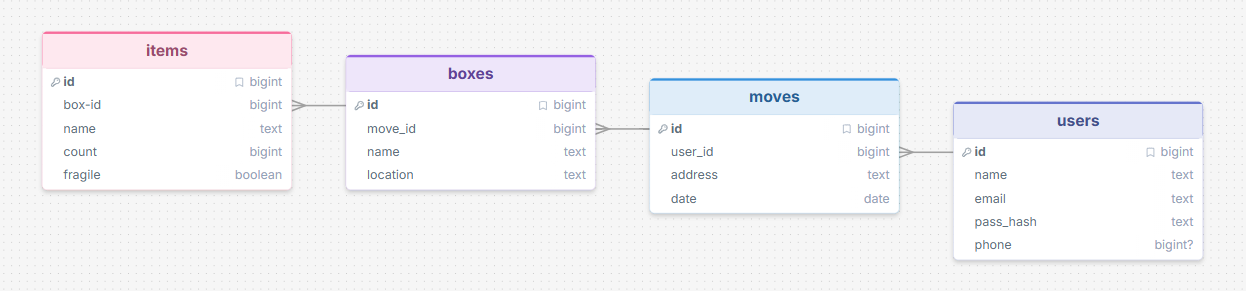
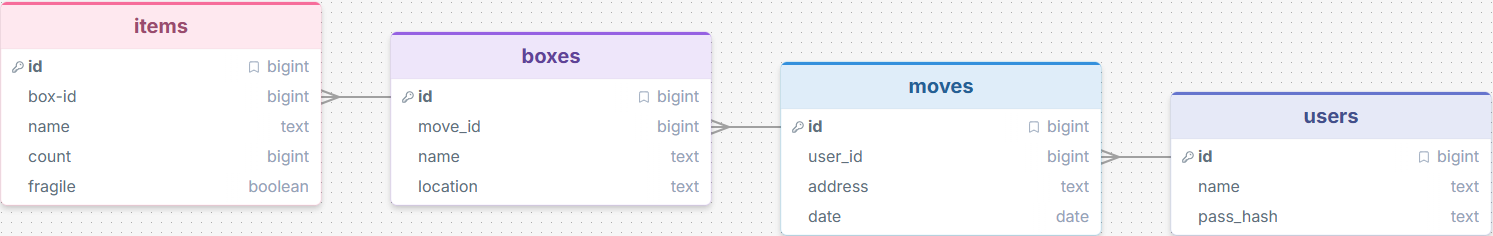
updated the db design and started on designng the UI

diff --git a/docs/evidence/sprint-1-prototype.md b/docs/evidence/sprint-1-prototype.md
@@ -53,13 +53,13 @@ This Figma demo shows the initial design for the UI 'flow':
 
 ### Testing
 
-Replace this text with notes about what you did to test the UI flow and the outcome of the testing.
+I gave it to my end user who had a play around with it and decided that she liked it, however a feature that she would like integrated is a way to print a list of items inside a box, so it could be taped onto said box for better help finding an item
 
 ### Changes / Improvements
 
-Replace this text with notes any improvements you made as a result of the testing.
+i added a print button to the box page that takes the user to a review page where they can see the list they'll be printing and then confirmation
 
-*IMPROVED FIGMA FLOW - PLACE THE FIGMA EMBED CODE HERE - MAKE SURE IT IS SET SO THAT EVERYONE CAN ACCESS IT*
+[prototype V1.5](https://design.penpot.app/#/view?file-id=bd31e32d-d69f-81e2-8008-637b90d00220&page-id=f0485fb1-4e63-8165-8008-3908f21f66a7&section=interactions&index=0&share-id=2be68822-842f-8175-8008-661819fb7d0f)
 
 
 ## Initial UI Prototype
